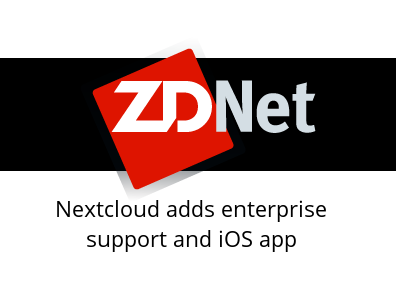
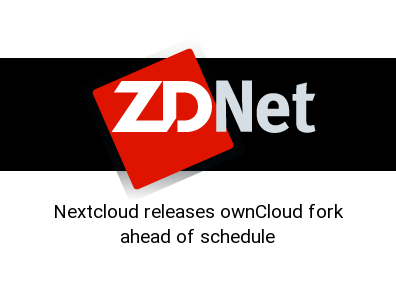
add thenewstack article, rearrange others

Changed region(s): [[0.1212, 0.6667, 0.8788, 0.8485]]

diff --git a/page-about.php b/page-about.php
@@ -42,9 +42,9 @@
 					</div>
 		</a>
     </div>
-    <div class="col-md-4 yt-img-overlay">
-		<a href="http://www.cio.com/article/3078173/cloud-computing/owncloud-forked-to-create-nextcloud.html" target="_blank" title="CIO on the fork">
-		<img class="" src="<?php bloginfo('template_directory'); ?>/assets/img/history/cio_logo.png" title="CIO on the fork"/>
+	<div class="col-md-4 yt-img-overlay">
+		<a href="http://www.zdnet.com/article/nextcloud-releases-owncloud-fork-ahead-of-schedule/" target="_blank" title="ZDNet on the fork">
+		<img class="" src="<?php bloginfo('template_directory'); ?>/assets/img/history/ZDNet.png" title="ZDNet on the fork"/>
 		</a>
     </div>
     <div class="col-md-4 yt-img-overlay">
@@ -52,9 +52,19 @@
 		<img class="" src="<?php bloginfo('template_directory'); ?>/assets/img/history/fortune.png" target="_blank" title="Fortune on the fork"/>
 		</a>
     </div>
+	<div class="col-md-4 yt-img-overlay">
+		<a href="http://thenewstack.io/story-behind-nextcloud/" target="_blank" title="TheNewStack on the fork">
+		<img class="" src="<?php bloginfo('template_directory'); ?>/assets/img/history/thenewstack.png" title="TheNewStack on the fork"/>
+		</a>
+    </div>
     <div class="col-md-4 yt-img-overlay">
-		<a href="http://www.zdnet.com/article/nextcloud-adds-enterprise-support-and-ios-appliance/" target="_blank" title="ZDNet on the fork">
-		<img class="" src="<?php bloginfo('template_directory'); ?>/assets/img/history/ZDNet.png" title="ZDNet on the fork"/>
+		<a href="http://www.eweek.com/cloud/nextcloud-improves-security-adds-enterprise-support.html" target="_blank" title="eWeek on the fork">
+		<img class="" src="<?php bloginfo('template_directory'); ?>/assets/img/history/eweek.png" title="eWeek on the fork"/>
+		</a>
+    </div>
+    <div class="col-md-4 yt-img-overlay">
+		<a href="http://www.cio.com/article/3079866/open-source-tools/what-we-can-learn-from-ownclouds-collapse.html" target="_blank" title="CIO on the fork">
+		<img class="" src="<?php bloginfo('template_directory'); ?>/assets/img/history/cio_logo.png" title="CIO on the fork"/>
 		</a>
     </div>
 	<div class="col-md-4 yt-img-overlay">
